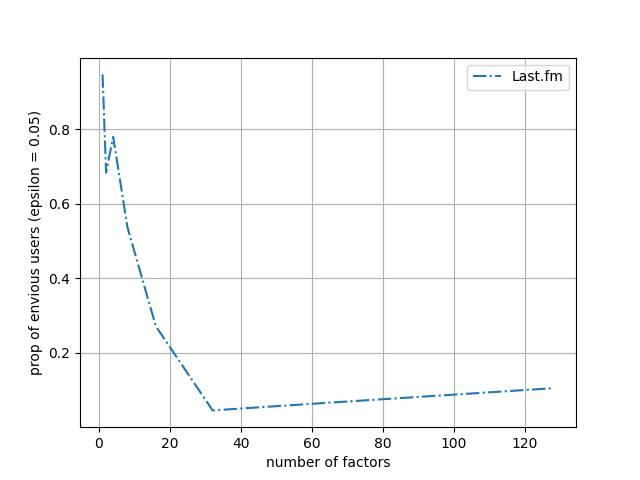
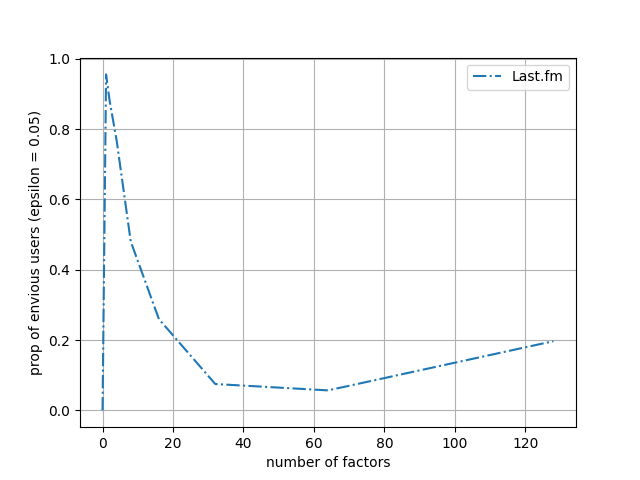
Model envy kloppen niet

diff --git a/vN/src/main.py b/vN/src/main.py
@@ -17,7 +17,7 @@ import constant
 def preferences_to_policies(latent_factor, model, ground_truth, algorithm):
     preference_estimates = recommender.recommendation_estimation(model, ground_truth, algorithm)
     recommendation_policies = recommender.create_recommendation_policies(preference_estimates)
-    return {"latent_factor": latent_factor, "recommendation_policies": {"recommendations": recommendation_policies["recommendations"], "policies": recommendation_policies["policies"]}}
+    return {"latent_factor": latent_factor, "recommendation_policies": {"preferences": preference_estimates, "recommendations": recommendation_policies["recommendations"], "policies": recommendation_policies["policies"]}}
 
 if __name__ == "__main__":
     # To save the experiment results
@@ -106,7 +106,7 @@ if __name__ == "__main__":
         ##########################
 
         # Hyperparameter spaces
-        latent_factors = [1, 2, 4, 8, 16, 32, 64, 128, 256]
+        latent_factors = [0, 1, 2, 4, 8, 16, 32, 64, 128, 256]
         regularization = [0.001, 0.01, 0.1, 1.0]
         confidence_weighting = [0.1, 1.0, 10.0, 100.0]
         
@@ -258,10 +258,11 @@ if __name__ == "__main__":
                     print("<latent_factor>", latent_factor)
                     model = best_recommendation_est_system[latent_factor]
                     
+                    preferences = recommendation_policies[latent_factor]["preferences"]
                     recommendations = recommendation_policies[latent_factor]["recommendations"]
                     policies = recommendation_policies[latent_factor]["policies"]
                         
-                    envy_results = envy.determine_envy_freeness(recommendations, policies, rewards, expec_rewards)
+                    envy_results = envy.determine_envy_freeness(recommendations, policies, rewards, expec_rewards, preferences)
                     envy_free[latent_factor] = envy_results["envy_free"]
                     avg_envy_user[latent_factor] = envy_results["avg_envy_user"]
                     prop_envious_users[latent_factor] = envy_results["prop_envious_users"]

diff --git a/vN/src/lib/envy.py b/vN/src/lib/envy.py
@@ -10,7 +10,7 @@ from tqdm import tqdm
 #     return np.sum(probability_policies[n] * expec_rewards[m])
 
 # Basic definition of envy-freeness in a system (see 3.1 paper)
-def envy_free_basic(recommendations, policies, expec_rewards, epsilon=0.05, gamma=0.5, lamb=0.5, relax_criterion=False):
+def envy_free_basic(recommendations, policies, expec_rewards, preferences, epsilon=0.05, gamma=0.5, lamb=0.5, relax_criterion=False):
     """
     Checks whether a system is envy-free according to the basic definition.
 
@@ -54,7 +54,7 @@ def envy_free_basic(recommendations, policies, expec_rewards, epsilon=0.05, gamm
     # <envy_free> temporarily None
     return {"envy_free": None, "avg_envy_user": average_envy_per_user, "prop_envious_users": proportion_envious_users}
 
-def determine_envy_freeness(recommendations, policies, rewards, expec_rewards, mode_envy="basis"):
+def determine_envy_freeness(recommendations, policies, rewards, expec_rewards, preferences, mode_envy="basis"):
     """
     Determines envy-freeness in a system according to different methods
 
@@ -67,7 +67,7 @@ def determine_envy_freeness(recommendations, policies, rewards, expec_rewards, m
     """
     # Basic definition of envy-freeness
     if mode_envy == "basic":
-        envy_results = envy_free_basic(recommendations, policies, expec_rewards)
+        envy_results = envy_free_basic(recommendations, policies, expec_rewards, preferences)
     # Algorithm 1: OCEF (Online Certification of Envy-Freeness) algorithm
     elif mode_envy == "OCEF":
         # TO DO
@@ -78,7 +78,7 @@ def determine_envy_freeness(recommendations, policies, rewards, expec_rewards, m
         exit()
     # Default is basic envy-freeness
     else:
-        envy_results = envy_free_basic(recommendations, policies, expec_rewards)
+        envy_results = envy_free_basic(recommendations, policies, expec_rewards, preferences)
     
     print(envy_results)
     return envy_results

diff --git a/vN/src/lib/plot.py b/vN/src/lib/plot.py
@@ -5,6 +5,7 @@
 ####
 import matplotlib.pyplot as plt
 import numpy as np
+from scipy.interpolate import make_interp_spline
 
 # 1st party imports
 import constant
@@ -36,6 +37,17 @@ def plot_experiment_line(data, y_label, x_label, labels, linestyles, colors, fil
             x = np.extract(x <= np.full(len(x), x_upper_bound), x)
             y = np.extract(x <= np.full(len(x), x_upper_bound), y)
 
+        # # create integers from strings
+        # idx = range(len(x))
+        # xnew = np.linspace(min(idx), max(idx), 300)
+
+        # # interpolation
+        # spl = make_interp_spline(idx, y, k=3)
+        # smooth = spl(xnew)
+
+        # # plotting, and tick replacement
+        # plt.plot(xnew, smooth , label=labels[i], linestyle=linestyles[i], color=colors[i])
+        # plt.xticks(idx, x)
         plt.plot(x, y, label=labels[i], linestyle=linestyles[i], color=colors[i])
 
     plt.legend()

diff --git a/vN/src/user_movie.py b/vN/src/user_movie.py
@@ -62,7 +62,8 @@ def train_model(R_coo, configurations, seed):
 
         # Benchmark model performance using validation set
         ndcg = ndcg_at_k(model, train, validation, K=constant.PERFORMANCE_METRIC_VARS["NDCG"]["K"], show_progress=False)
-        print("NDCG@{}".format(constant.PERFORMANCE_METRIC_VARS["NDCG"]["K"]), ndcg)
+        
+        print("Seed {}: NDCG@{}".format((seed + 1), constant.PERFORMANCE_METRIC_VARS["NDCG"]["K"]), ndcg)
 
         # When current model outperforms previous one update tracking states
         if ndcg > ndcg_base:

diff --git a/vN/src/models/recommender.py b/vN/src/models/recommender.py
@@ -17,7 +17,7 @@ class Recommender(object):
         self.model_type = model_type
         self.params = params
         self.ground_truth = ground_truth
-        self.preference_est = preference_est
+        self.preferences = preference_est
         self.pred_perf = pred_perf
         self.pred_metric = pred_metric
         self.recommendations = recommendations

diff --git a/vN/src/constant.py b/vN/src/constant.py
@@ -15,7 +15,7 @@ PERFORMANCE_METRIC_VARS = {"NDCG": {"K": 40}}
 
 # Folder to save time performances
 TIMING_FOLDER = "results/execution times/"
-TIMING_FILE = {"fm": "fm.log", "movie": "mv.log"}
+TIMING_FILE = {"fm": "fm.log", "mv": "mv.log"}
 
 VARIABLES_FOLDER = "variables/"
 # Variable path infix depending on the data set
